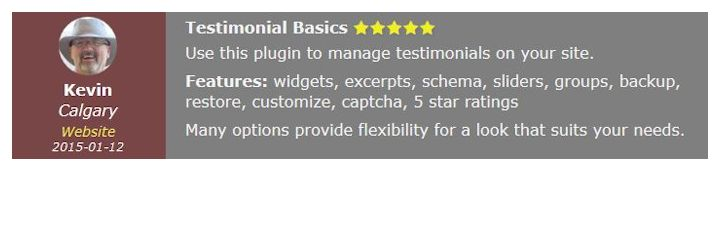
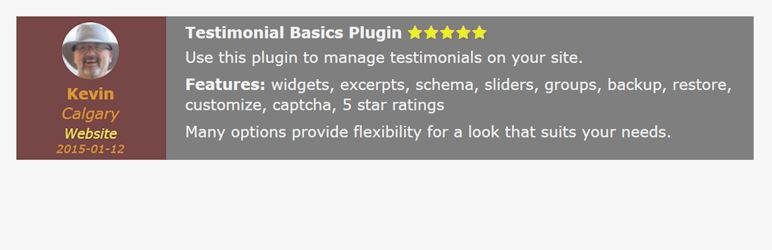
Tagging Version 4.1.6
git-svn-id: https://plugins.svn.wordpress.org/testimonial-basics/tags/4.1.6@1151535 b8457f37-d9ea-0310-8a92-e5e31aec5664

Changed region(s): [[0.0, 0.028, 1.0, 0.644]]

diff --git a/trunk/includes/katb_functions.php b/trunk/includes/katb_functions.php
@@ -131,7 +131,8 @@ function katb_get_option_parameters() {
 			'section' => 'general',
 			'tab' => 'general',
 			'default' => '#EACB1E',
-			'class' => 'hexcolor'
+			'class' => 'ka_color'
+			//'class' => 'nohtml'
 		),
 		'katb_star_shadow_color' => array(
 			'name' => 'katb_star_shadow_color',
@@ -141,7 +142,7 @@ function katb_get_option_parameters() {
 			'section' => 'general',
 			'tab' => 'general',
 			'default' => '#000000',
-			'class' => 'hexcolor'
+			'class' => 'ka_color'
 		),
 		'katb_enable_rotator' => array(
 			'name' => 'katb_enable_rotator',
@@ -980,7 +981,7 @@ function katb_get_option_parameters() {
 			'section' => 'content_custom_formats',
 			'tab' => 'content_display',
 			'default' => '#EDEDED',
-			'class' => 'hexcolor'
+			'class' => 'ka_color'
 		),
 		'katb_testimonial_box_color' => array(
 			'name' => 'katb_testimonial_box_color',
@@ -990,7 +991,7 @@ function katb_get_option_parameters() {
 			'section' => 'content_custom_formats',
 			'tab' => 'content_display',
 			'default' => '#DBDBDB',
-			'class' => 'hexcolor'
+			'class' => 'ka_color'
 		),
 		'katb_testimonial_box_font_color' => array(
 			'name' => 'katb_testimonial_box_font_color',
@@ -1000,7 +1001,7 @@ function katb_get_option_parameters() {
 			'section' => 'content_custom_formats',
 			'tab' => 'content_display',
 			'default' => '#000000',
-			'class' => 'hexcolor'
+			'class' => 'ka_color'
 		),		
 		'katb_author_location_color' => array(
 			'name' => 'katb_author_location_color',
@@ -1010,7 +1011,7 @@ function katb_get_option_parameters() {
 			'section' => 'content_custom_formats',
 			'tab' => 'content_display',
 			'default' => '#000000',
-			'class' => 'hexcolor'
+			'class' => 'ka_color'
 		),		
 		'katb_website_link_color' => array(
 			'name' => 'katb_website_link_color',
@@ -1020,7 +1021,7 @@ function katb_get_option_parameters() {
 			'section' => 'content_custom_formats',
 			'tab' => 'content_display',
 			'default' => '#3384E8',
-			'class' => 'hexcolor'
+			'class' => 'ka_color'
 		),
 		'katb_website_link_hover_color' => array(
 			'name' => 'katb_website_link_hover_color',
@@ -1030,7 +1031,7 @@ function katb_get_option_parameters() {
 			'section' => 'content_custom_formats',
 			'tab' => 'content_display',
 			'default' => '#FFFFFF',
-			'class' => 'hexcolor'
+			'class' => 'ka_color'
 		),
 //Widget
 		'katb_widget_layout_option' => array(
@@ -1293,7 +1294,7 @@ function katb_get_option_parameters() {
 			'section' => 'widget_custom_formats',
 			'tab' => 'widget_display',
 			'default' => '#EDEDED',
-			'class' => 'hexcolor'
+			'class' => 'ka_color'
 		),
 		'katb_widget_divider_color' => array(
 			'name' => 'katb_widget_divider_color',
@@ -1303,7 +1304,7 @@ function katb_get_option_parameters() {
 			'section' => 'widget_custom_formats',
 			'tab' => 'widget_display',
 			'default' => '#CECECE',
-			'class' => 'hexcolor'
+			'class' => 'ka_color'
 		),
 		'katb_widget_font_color' => array(
 			'name' => 'katb_widget_font_color',
@@ -1313,7 +1314,7 @@ function katb_get_option_parameters() {
 			'section' => 'widget_custom_formats',
 			'tab' => 'widget_display',
 			'default' => '#000000',
-			'class' => 'hexcolor'
+			'class' => 'ka_color'
 		),
 		'katb_widget_author_location_color' => array(
 			'name' => 'katb_widget_author_location_color',
@@ -1323,7 +1324,7 @@ function katb_get_option_parameters() {
 			'section' => 'widget_custom_formats',
 			'tab' => 'widget_display',
 			'default' => '#000000',
-			'class' => 'hexcolor'
+			'class' => 'ka_color'
 		),
 		'katb_widget_website_link_color' => array(
 			'name' => 'katb_widget_website_link_color',
@@ -1333,7 +1334,7 @@ function katb_get_option_parameters() {
 			'section' => 'widget_custom_formats',
 			'tab' => 'widget_display',
 			'default' => '#3384E8',
-			'class' => 'hexcolor'
+			'class' => 'ka_color'
 		),
 		'katb_widget_website_link_hover_color' => array(
 			'name' => 'katb_widget_website_link_hover_color',
@@ -1343,7 +1344,7 @@ function katb_get_option_parameters() {
 			'section' => 'widget_custom_formats',
 			'tab' => 'widget_display',
 			'default' => '#FFFFFF',
-			'class' => 'hexcolor'
+			'class' => 'ka_color'
 		),																																				
 	);
 		

diff --git a/trunk/includes/katb_testimonial_basics_admin.php b/trunk/includes/katb_testimonial_basics_admin.php
@@ -457,6 +457,7 @@ function katb_setting_callback( $option ) { //Callback for get_settings_field()
 	$fieldtype = $option['type'];
 	$fieldname = 'katb_testimonial_basics_options[' . $optionname . ']';
 	$katb_input_class = $option['class'];
+	//echo '<script>alert("'.$katb_input_class.'");</script>';
 	
 	// Output checkbox form field markup
 	if ( 'checkbox' == $fieldtype ) {
@@ -499,9 +500,12 @@ function katb_setting_callback( $option ) { //Callback for get_settings_field()
 	} 
 	// Output text input form field markup
 	else if ( 'text' == $fieldtype ) {
-		if ($katb_input_class == 'html') { ?>
+		
+		if ( $katb_input_class == 'html' ) { ?>
 			<input id="<?php echo $optionname; ?>" class="katb_options <?php echo $katb_input_class ?>" type="text" name="<?php echo $fieldname; ?>" value="<?php echo stripcslashes( esc_html( $katb_options[$optionname] ) ); ?>" />
-		<?php } else { ?>	
+		<?php } elseif ( $katb_input_class == 'ka_color' ) { ?>
+			<input id="<?php echo $optionname; ?>" class="katb_options hexcolor" type="text" name="<?php echo $fieldname; ?>" value="<?php echo stripcslashes( esc_html( $katb_options[$optionname] ) ); ?>" />
+		<?php } else { ?>
 			<input id="<?php echo $optionname; ?>" class="katb_options <?php echo $katb_input_class ?>" type="text" name="<?php echo $fieldname; ?>" value="<?php echo stripcslashes( wp_filter_nohtml_kses( $katb_options[$optionname] ) ); ?>" />
 		<?php }
 	}

diff --git a/trunk/testimonial-basics.php b/trunk/testimonial-basics.php
@@ -3,7 +3,7 @@
 Plugin Name: Testimonial Basics
 Plugin URI: http://kevinsspace.ca/testimonial-basics-wordpress-plugin/
 Description: This plugin facilitates easy management of customer testimonials. The user can set up an input form in a page or in a widget, and display all or selected testimonials in a page or a widget. The plug in is very easy to use and modify.
-Version: 4.1.5
+Version: 4.1.6
 Author: Kevin Archibald
 Author URI: http://kevinsspace.ca
 License: GPLv3
